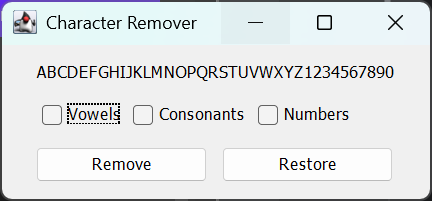
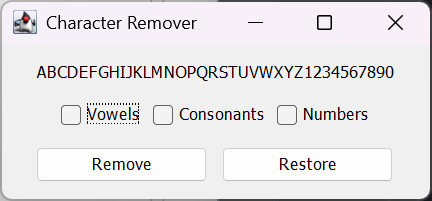
updated charrmgui

diff --git a/src/CharRMGUI.java b/src/CharRMGUI.java
@@ -42,7 +42,8 @@ public class CharRMGUI extends JFrame {
         restore_btn.addActionListener(this::restoreClick);
 
         JPanel checkbox_panel = new JPanel();
-        checkbox_panel.setLayout(new BoxLayout(checkbox_panel, BoxLayout.X_AXIS));
+        checkbox_panel.setLayout(new FlowLayout(FlowLayout.CENTER, 0,0));
+        checkbox_panel.setBorder(BorderFactory.createEmptyBorder(0,0,0,0));
         checkbox_panel.add(vowelsBox);
         checkbox_panel.add(consonantsBox);
         checkbox_panel.add(numbersBox);
